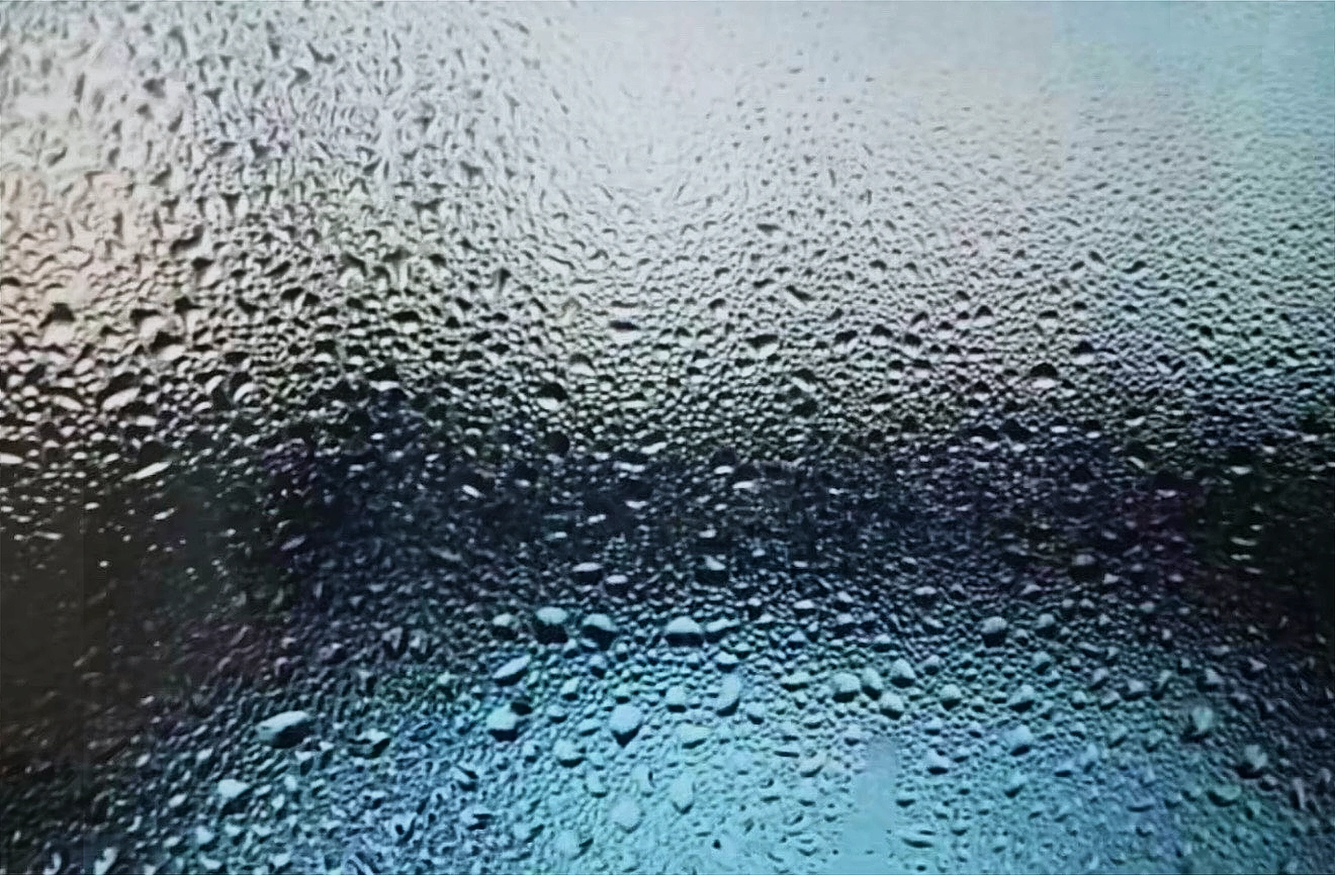
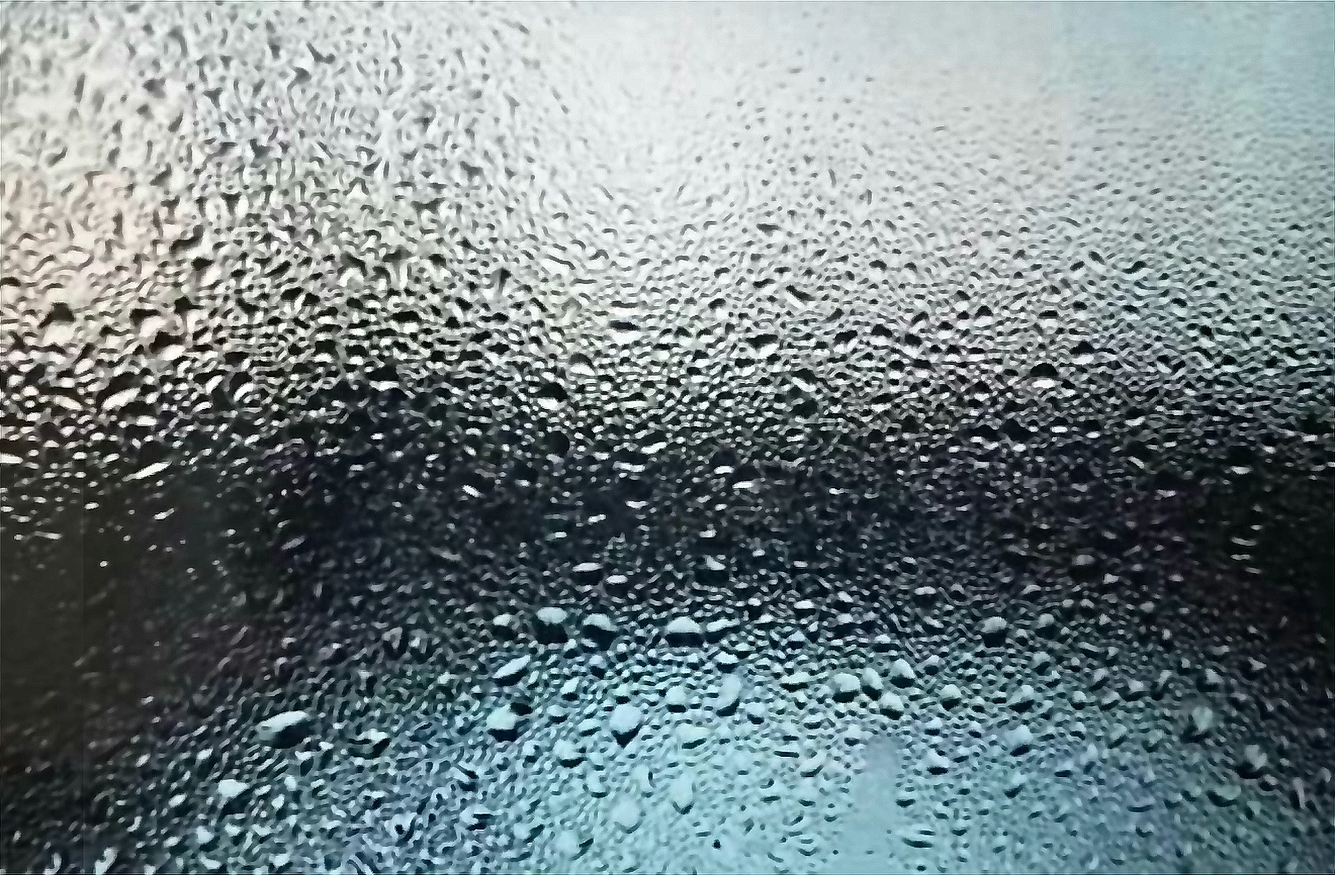
Make the glass background genuinely sharper: denoise, RL deconvolution and edge reconstruction on the luminance channel only

diff --git a/src/pages/HomePage.css b/src/pages/HomePage.css
@@ -165,7 +165,7 @@
   z-index: 2;
   pointer-events: none;
   background:
-    linear-gradient(180deg, rgba(3, 11, 16, 0.74) 0%, rgba(3, 11, 16, 0.5) 8%, rgba(3, 11, 16, 0.14) 18%, rgba(3, 11, 16, 0) 27%),
+    linear-gradient(180deg, rgba(3, 11, 16, 0.88) 0%, rgba(3, 11, 16, 0.7) 9%, rgba(3, 11, 16, 0.28) 19%, rgba(3, 11, 16, 0.04) 27%, rgba(3, 11, 16, 0) 33%),
     linear-gradient(0deg, rgba(3, 11, 16, 0.8) 0%, rgba(3, 11, 16, 0.46) 8%, rgba(3, 11, 16, 0.08) 16%, rgba(3, 11, 16, 0) 22%);
 }
 
